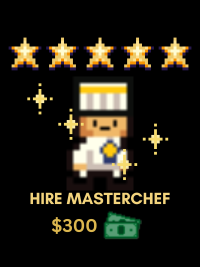
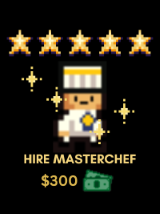
edited hirechef pngs

diff --git a/Restaurant.java b/Restaurant.java
@@ -76,7 +76,7 @@ public class Restaurant extends SuperSmoothMover
     
     public void act() {
         actCount++;
-        if(actCount >= 600){
+        if(actCount >= 200){
             actCount = 0;
             chefs = new ArrayList(getWorld().getObjects(Chef.class));
             for(Chef c : chefs){//each restaurant will only pay its own chefs
@@ -94,11 +94,13 @@ public class Restaurant extends SuperSmoothMover
         }
     }
     
-    private void purchaseEffect() {
-        // check how much cash it has
-        // decide which effect it wants to buy
-        // "buff" --> Influencer
-        // "sabatoge" --> rat infestation/power outage (power outage can just be a random occurance though)
+    public void hireChef(Chef chef, Restaurant restaurant) {
+        chefs.add(chef);
+        if (restaurant == rw.restaurantBlue) {
+            rw.addObject(chef, 300, 200);
+        } else {
+            rw.addObject(chef, 700, 200);
+        }
     }
     
     /**
@@ -197,12 +199,14 @@ public class Restaurant extends SuperSmoothMover
     public String getTeam() {
         return team;
     }
+    
     /**
      * returns how much cash the restaurant currently has
      */
     public int getCash() {
         return currentCash;
     }
+    
     /**
      * returns the restaurant's current average rating
      */

diff --git a/SettingsWorld.java b/SettingsWorld.java
@@ -84,7 +84,7 @@ public class SettingsWorld extends World
     private final int MIN_CHEFS = 1;
     private final int MAX_CHEFS = 3;
     private final int MIN_MONEY = 500;
-    private final int MAX_MONEY = 5000;
+    private final int MAX_MONEY = 3000;
     private final int MONEY_INCREMENT = 100;
 
     private final int BLUE_CENTER_X = 280;

diff --git a/RestaurantWorld.java b/RestaurantWorld.java
@@ -405,4 +405,12 @@ public class RestaurantWorld extends World
     private void prepare()
     {
     }
+    
+    public Restaurant getRedRestaurant() {
+        return restaurantRed;
+    }
+    
+    public Restaurant getBlueRestaurant() {
+        return restaurantBlue;
+    }
 }
